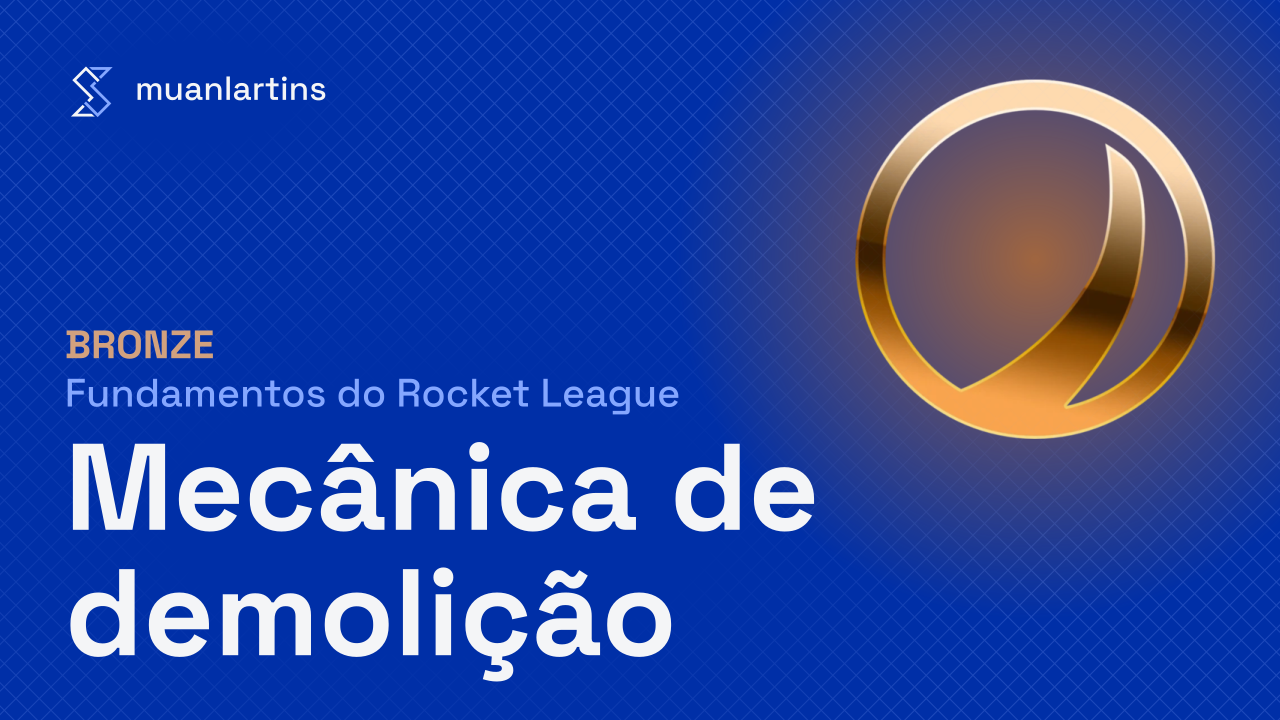
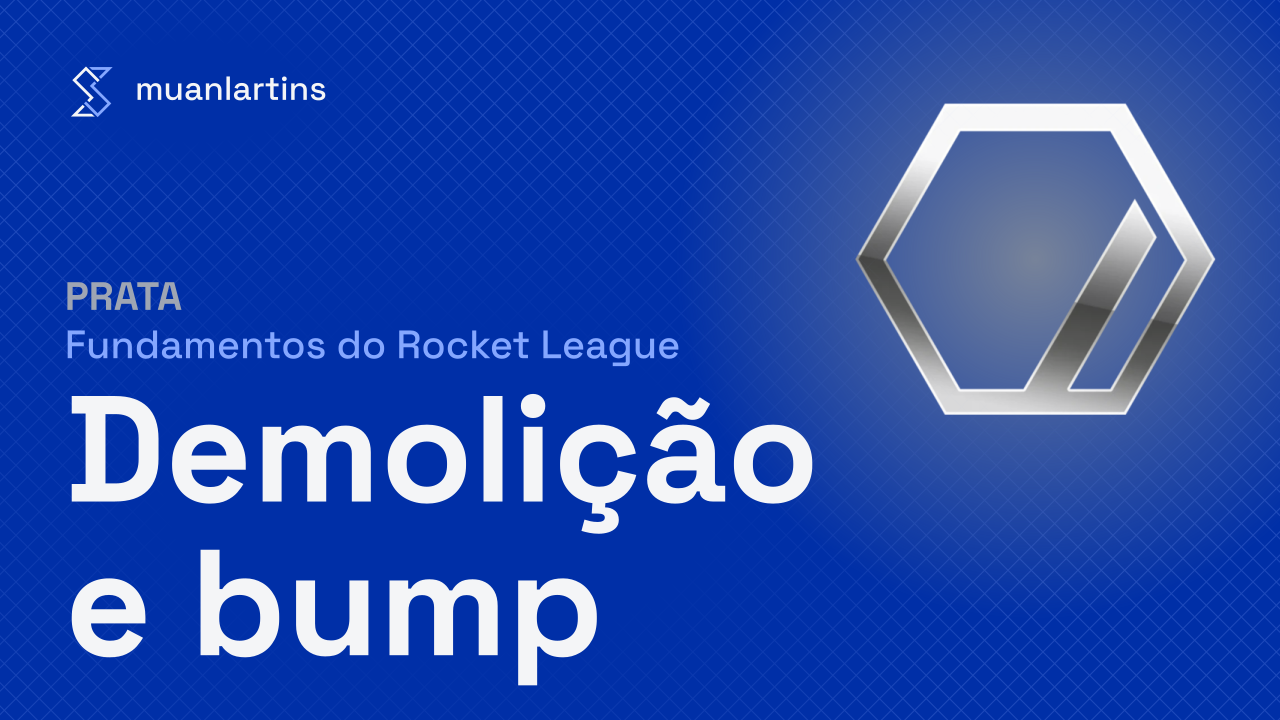
Teach demolitions and bumps together at Silver

diff --git a/content/rocket-league.ts b/content/rocket-league.ts
@@ -518,8 +518,8 @@ Nas configurações, na parte do chat, dá para trocar a mensagem de cada opçã
           topics: [
             {
               id: "demos",
-              rank: "bronze",
-              title: { pt: "Mecânica de demolição", en: "How demolitions work" },
+              rank: "silver",
+              title: { pt: "Demolição e bump", en: "Demolitions and bumps" },
               video: "NAbbaWE4QzE",
               text: `Quando dois carros se encostam, um empurra o outro. Uma batida de bico no adversário é o bump: ele toma uma pancada e muitas vezes perde o controle do carro.
 
@@ -529,7 +529,6 @@ Tirar um adversário do lance, mesmo por poucos segundos, decide jogadas. Num at
 
 A demolição é para quando você não tem nada mais importante para fazer na bola: use esse tempo livre para tirar o defensor e deixar o colega fazer o gol. Só não troque a defesa por uma demolição, nem o contrário.`,
             },
-            { id: "bumps", rank: "silver", title: { pt: "Bumps", en: "Bumps" } },
             { id: "avoiding-demos", rank: "gold", title: { pt: "Evitando demolição", en: "Avoiding demos" } },
           ],
         },

diff --git a/brand/build.py b/brand/build.py
@@ -309,7 +309,7 @@ THUMBNAILS = {
     "boost-pads": ("bronze", ["Onde pegar", "boost"]),
     "common-attack": ("bronze", ["O ataque", "mais comum"]),
     "quick-chat": ("bronze", ["Aprendendo os", "quick chats"]),
-    "demos": ("bronze", ["Mecânica de", "demolição"]),
+    "demos": ("silver", ["Demolição", "e bump"]),
     "deadzone": ("silver", ["Deadzone e", "sensibilidade"]),
     "walls": ("silver", ["Paredes"]),
     "flip-cancel": ("silver", ["Flip", "cancel"]),
